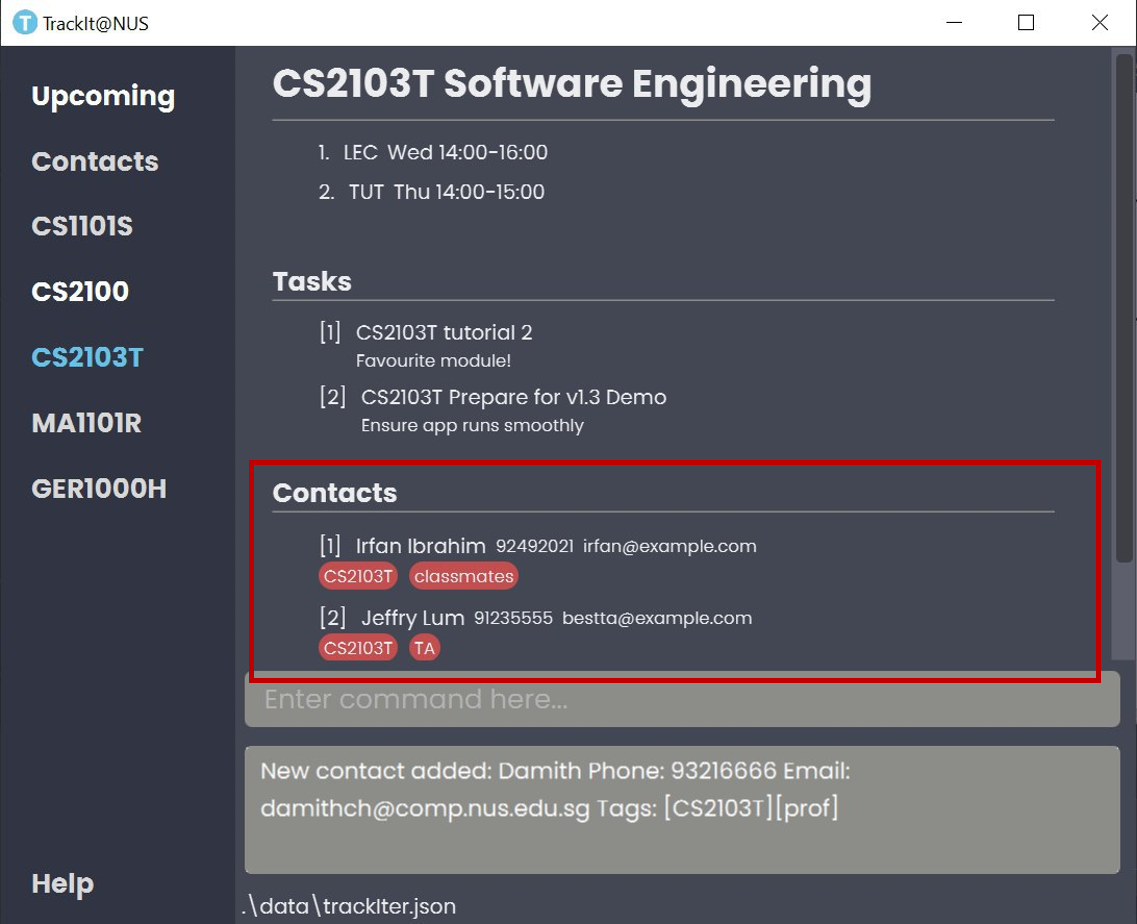
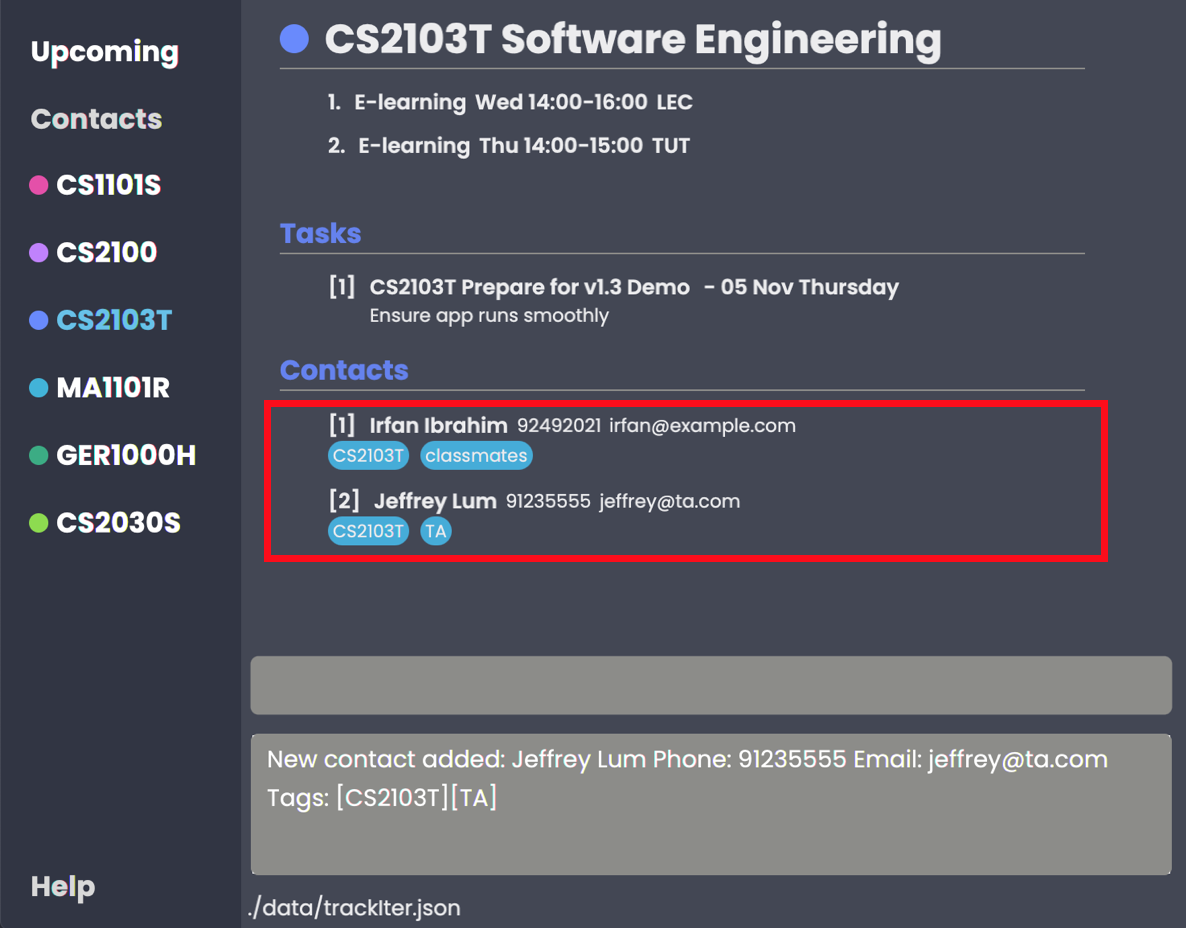
Improve images

Changed region(s): [[0.0, 0.0, 1.0, 0.9394], [0.2155, 0.9394, 0.985, 1.0], [0.0, 0.9394, 0.0923, 0.9697]]

diff --git a/docs/UserGuide.md b/docs/UserGuide.md
@@ -137,6 +137,7 @@ The contacts tab shows you all the **contacts** you have within the app. It will
 
 ### Module Tabs <a name="moduletabs"></a>
 ![ModuleTab](images/ModuleTab.png)
+
 Here under each module's tab you can find all relevant **Lessons**, **Tasks** and **Contacts** that are related to the
  module. Very convenient right? This information will be displayed in 3 sections:
  
@@ -176,8 +177,8 @@ Format: `M edit m/MODULE_CODE n/NAME`
 
 Examples: `M edit m/CS1231S n/Programming Methodology`
 
-Remark: The `MODULE_CODE` provided must be present in the Module list. After the command, the specified module will
- have a new name.
+:information_source: The `MODULE_CODE` provided must be present in the Module list. After the command, the specified
+ module will have a new name.
 
 ### Delete
 And what if you realized you accidentally added in a wrong module, or have finished one? Just delete that module! The
@@ -248,7 +249,7 @@ Examples:
 * `L edit 4 m/CS3233 a/COM2`
 
 :information_source: The parameters `m/MODULE_CODE`, `n/TYPE`, and `d/DATE` are optional;
-however, at least one parameter must be provided, i.e. `L edit 1` is not a valid command.
+however, at least one parameter must be provided (i.e. `L edit 1` is not a valid command).
 
 :information_source: Here, `INDEX` refers to the index of the lesson you want to edit, as shown in the current tab. 
 The `INDEX` provided must be positive 
@@ -320,7 +321,7 @@ Examples:
 :information_source: Here, `INDEX` refers to the index of the task you want to edit, as shown in the current tab. The
  `INDEX` provided must be positive and within the range of tasks in the current window.
 
-:warning: At least 1 field must be provided for editing. i.e. `T edit 1` is not allowed.
+:warning: At least 1 field must be provided for editing (i.e. `T edit 1` is not allowed).
 
 :bulb: Write `T edit 1 m/` to remove the module code from the task. Now, the task does not belong to any module. You
  can also use `T edit 1 r/` to remove the remark from the task.
@@ -451,7 +452,7 @@ TrackIt@NUS data is saved in the hard disk automatically after any command that 
 
 | Command | Example |
 | ---- | ------ |
-| **Add:** `L add m/MODULE_CODE t/TYPE d/DATE a/ADDRESS` | `L add m/CS2103T n/tutorial d/Wed 14:00-15:00 a/COM1` |
+| **Add:** `L add m/MODULE_CODE t/TYPE d/DATE a/ADDRESS` | `L add m/CS2103T t/tutorial d/Wed 14:00-15:00 a/COM1` |
 | **Edit:** `L edit INDEX [m/MODULE_CODE] [t/TYPE] [d/DATE] [a/ADDRESS]` | `L edit 1 a/LT17` |
 | **Delete:** `L delete INDEX` | `L delete 1` |
 
